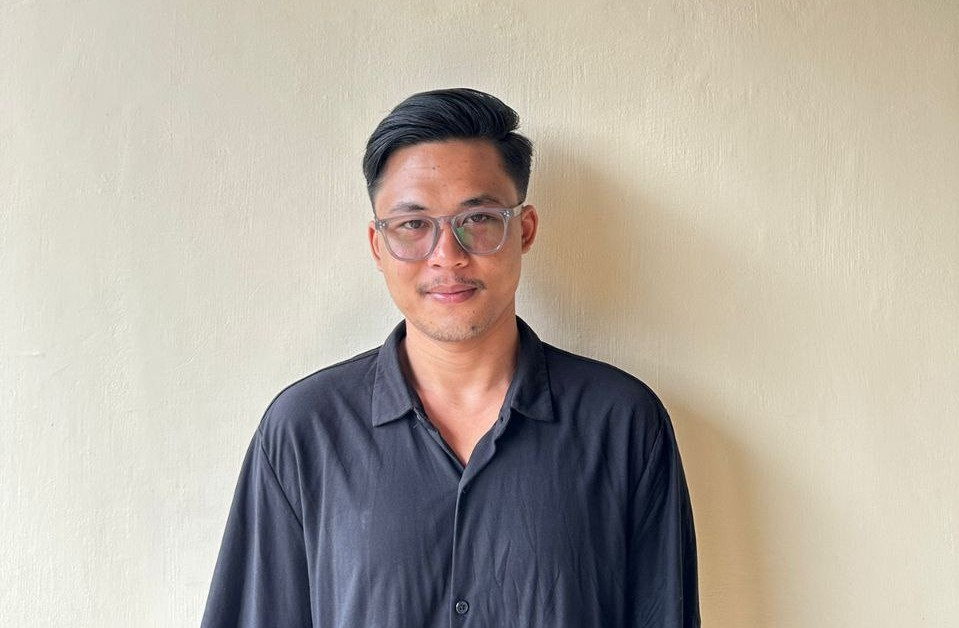
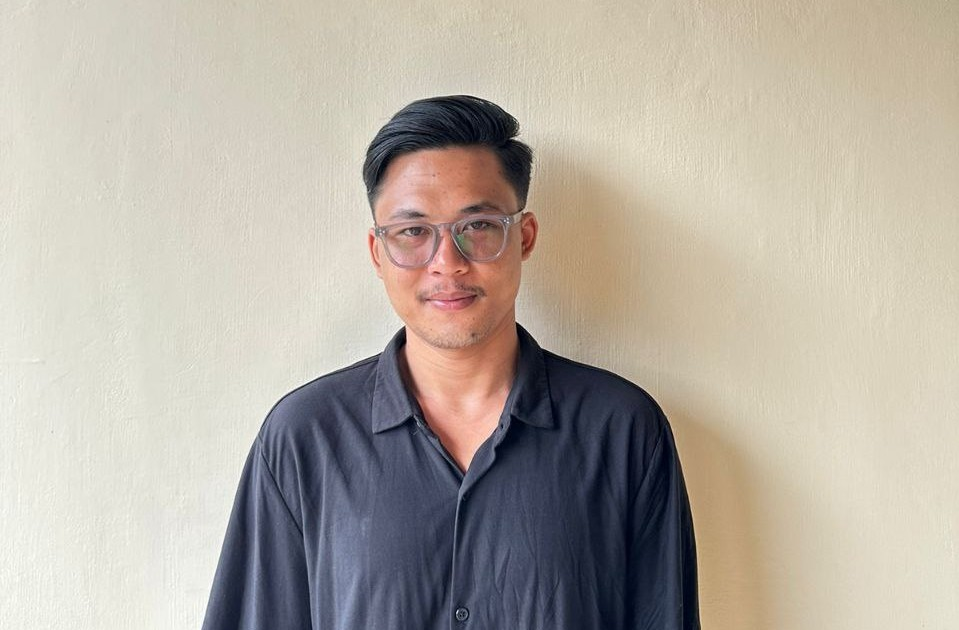
commit fix opengraph

diff --git a/src/app/layout.tsx b/src/app/layout.tsx
@@ -8,7 +8,7 @@ import { ThemeProvider } from '@/components/providers/theme-provider'
 export async function generateMetadata(): Promise<Metadata | undefined> {
   return {
     metadataBase: new URL('https://purwa-widnyana.vercel.app/'),
-    title: 'Home | Portfolio Purwa Wiadnyana',
+    title: 'Home | Portfolio Purwa Wiadnyana Full-Stack Web Developer',
     description:
       'Motivated as Web Developer with a background in programming languages and web technologies. Experienced in creating and maintaining websites and applications. Committed to working with teams to achieve project goals and enhance technical skills.',
 
@@ -22,7 +22,7 @@ export async function generateMetadata(): Promise<Metadata | undefined> {
       images: [
         {
           url: '/images/opengraph-profile.jpg',
-          width: 1200,
+          width: 959,
           height: 630,
         },
       ],

diff --git a/src/app/projects/page.tsx b/src/app/projects/page.tsx
@@ -5,7 +5,7 @@ import SiteProject from '@/components/site/site-project'
 export async function generateMetadata(): Promise<Metadata | undefined> {
   return {
     metadataBase: new URL('https://purwa-widnyana.vercel.app/'),
-    title: 'Project | Portfolio Purwa Wiadnyana',
+    title: 'Project | Portfolio Purwa Wiadnyana Full-Stack Web Developer',
     description:
       'Motivated as Web Developer with a background in programming languages and web technologies. Experienced in creating and maintaining websites and applications. Committed to working with teams to achieve project goals and enhance technical skills.',
 
@@ -19,7 +19,7 @@ export async function generateMetadata(): Promise<Metadata | undefined> {
       images: [
         {
           url: '/images/opengraph-profile.jpg',
-          width: 1200,
+          width: 959,
           height: 630,
         },
       ],

diff --git a/src/app/about/page.tsx b/src/app/about/page.tsx
@@ -5,7 +5,7 @@ import SiteAbout from '@/components/site/site-about'
 export async function generateMetadata(): Promise<Metadata | undefined> {
   return {
     metadataBase: new URL('https://purwa-widnyana.vercel.app/'),
-    title: 'About | Portfolio Purwa Wiadnyana',
+    title: 'About | Portfolio Purwa Wiadnyana Full-Stack Web Developer',
     description:
       'Motivated as Web Developer with a background in programming languages and web technologies. Experienced in creating and maintaining websites and applications. Committed to working with teams to achieve project goals and enhance technical skills.',
 
@@ -19,7 +19,7 @@ export async function generateMetadata(): Promise<Metadata | undefined> {
       images: [
         {
           url: '/images/opengraph-profile.jpg',
-          width: 1200,
+          width: 959,
           height: 630,
         },
       ],
